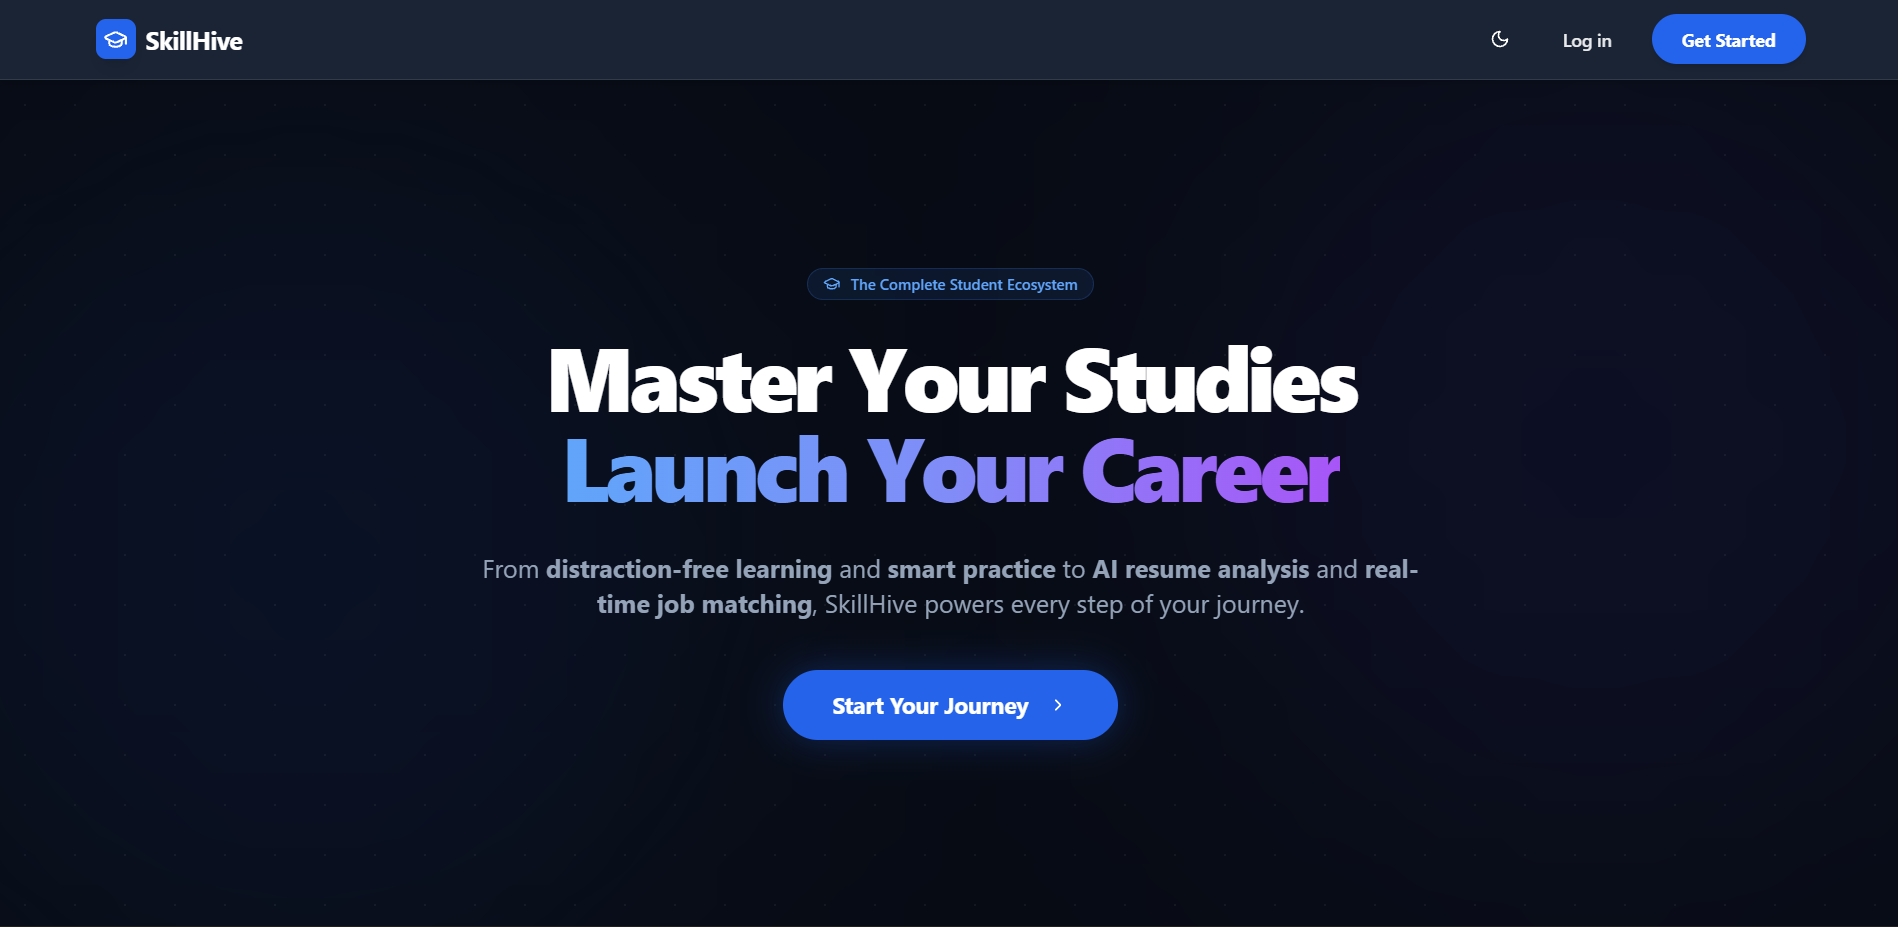
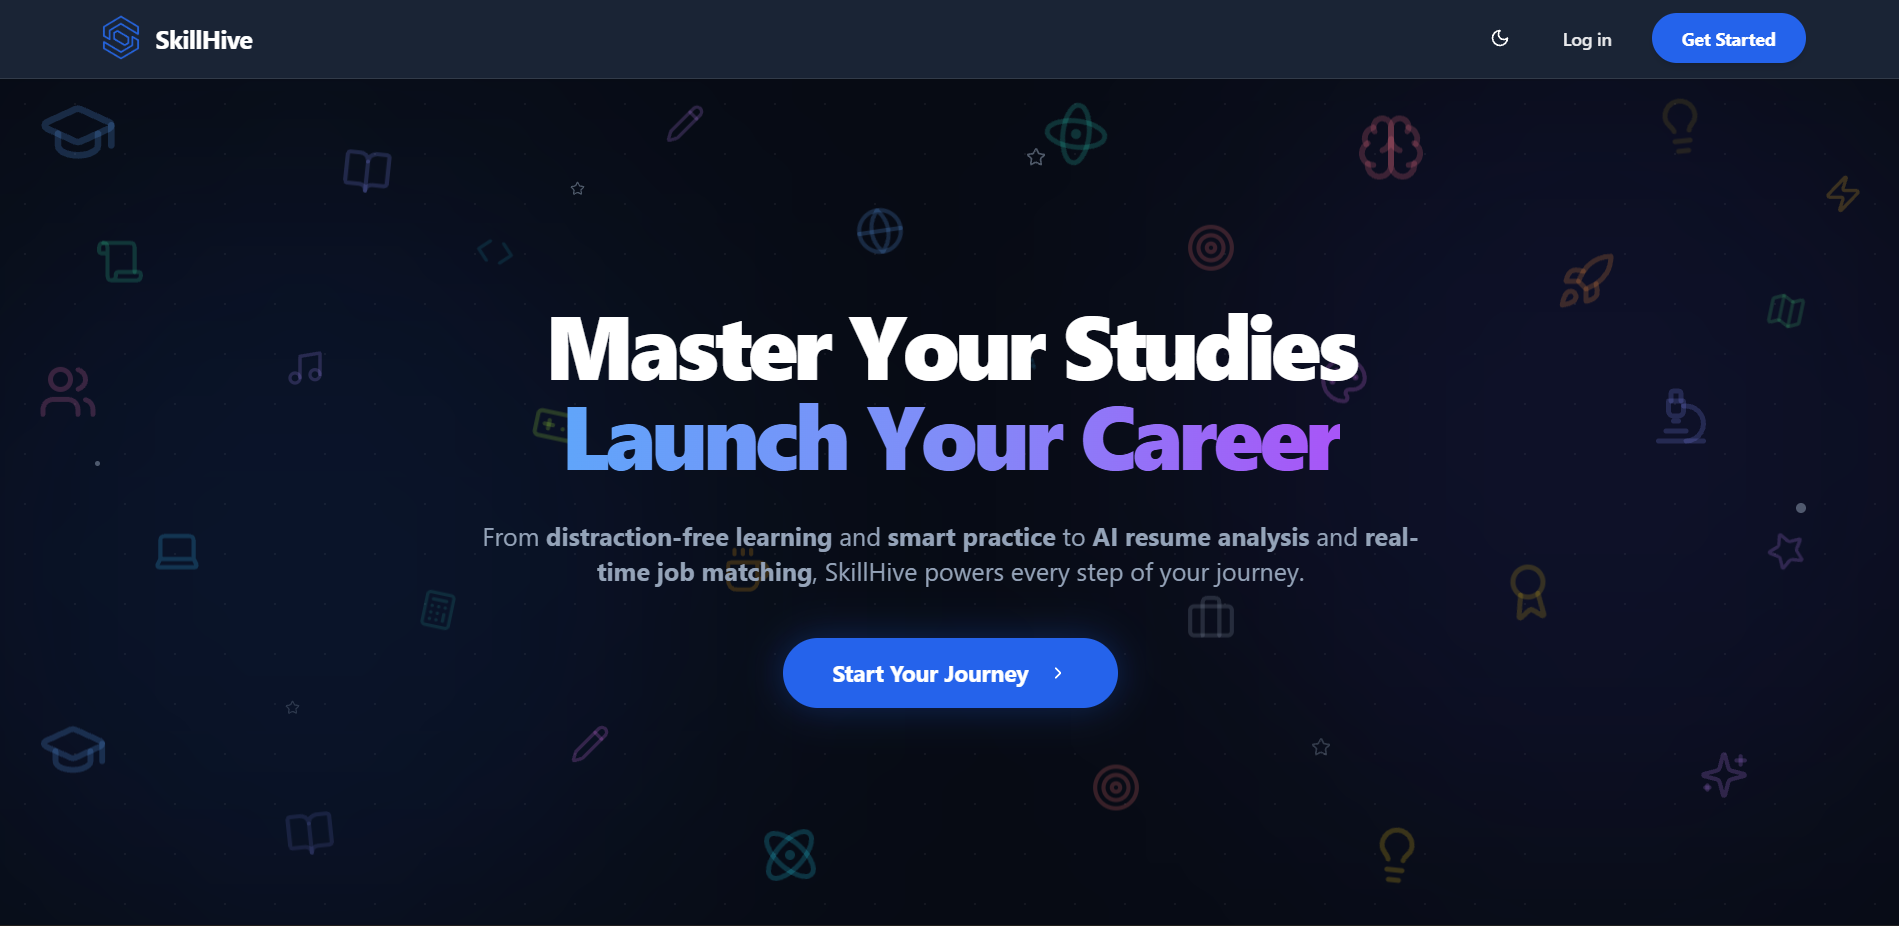
Update README

diff --git a/README.md b/README.md
@@ -2,6 +2,8 @@
 
 SkillHive is a next-generation **AI-Powered Adaptive Learning Ecosystem** that evolves with every student. It goes beyond traditional learning management by using real-time analytics to personalize education, identify weak areas, and bridge the gap between academic mastery and career readiness.
 
+### **Live Demo:** [https://skillhive-gamma.vercel.app/](https://skillhive-gamma.vercel.app/)
+
 ![SkillHive Landing Page](public/landing-page-preview.png)
 
 ## Key Features
